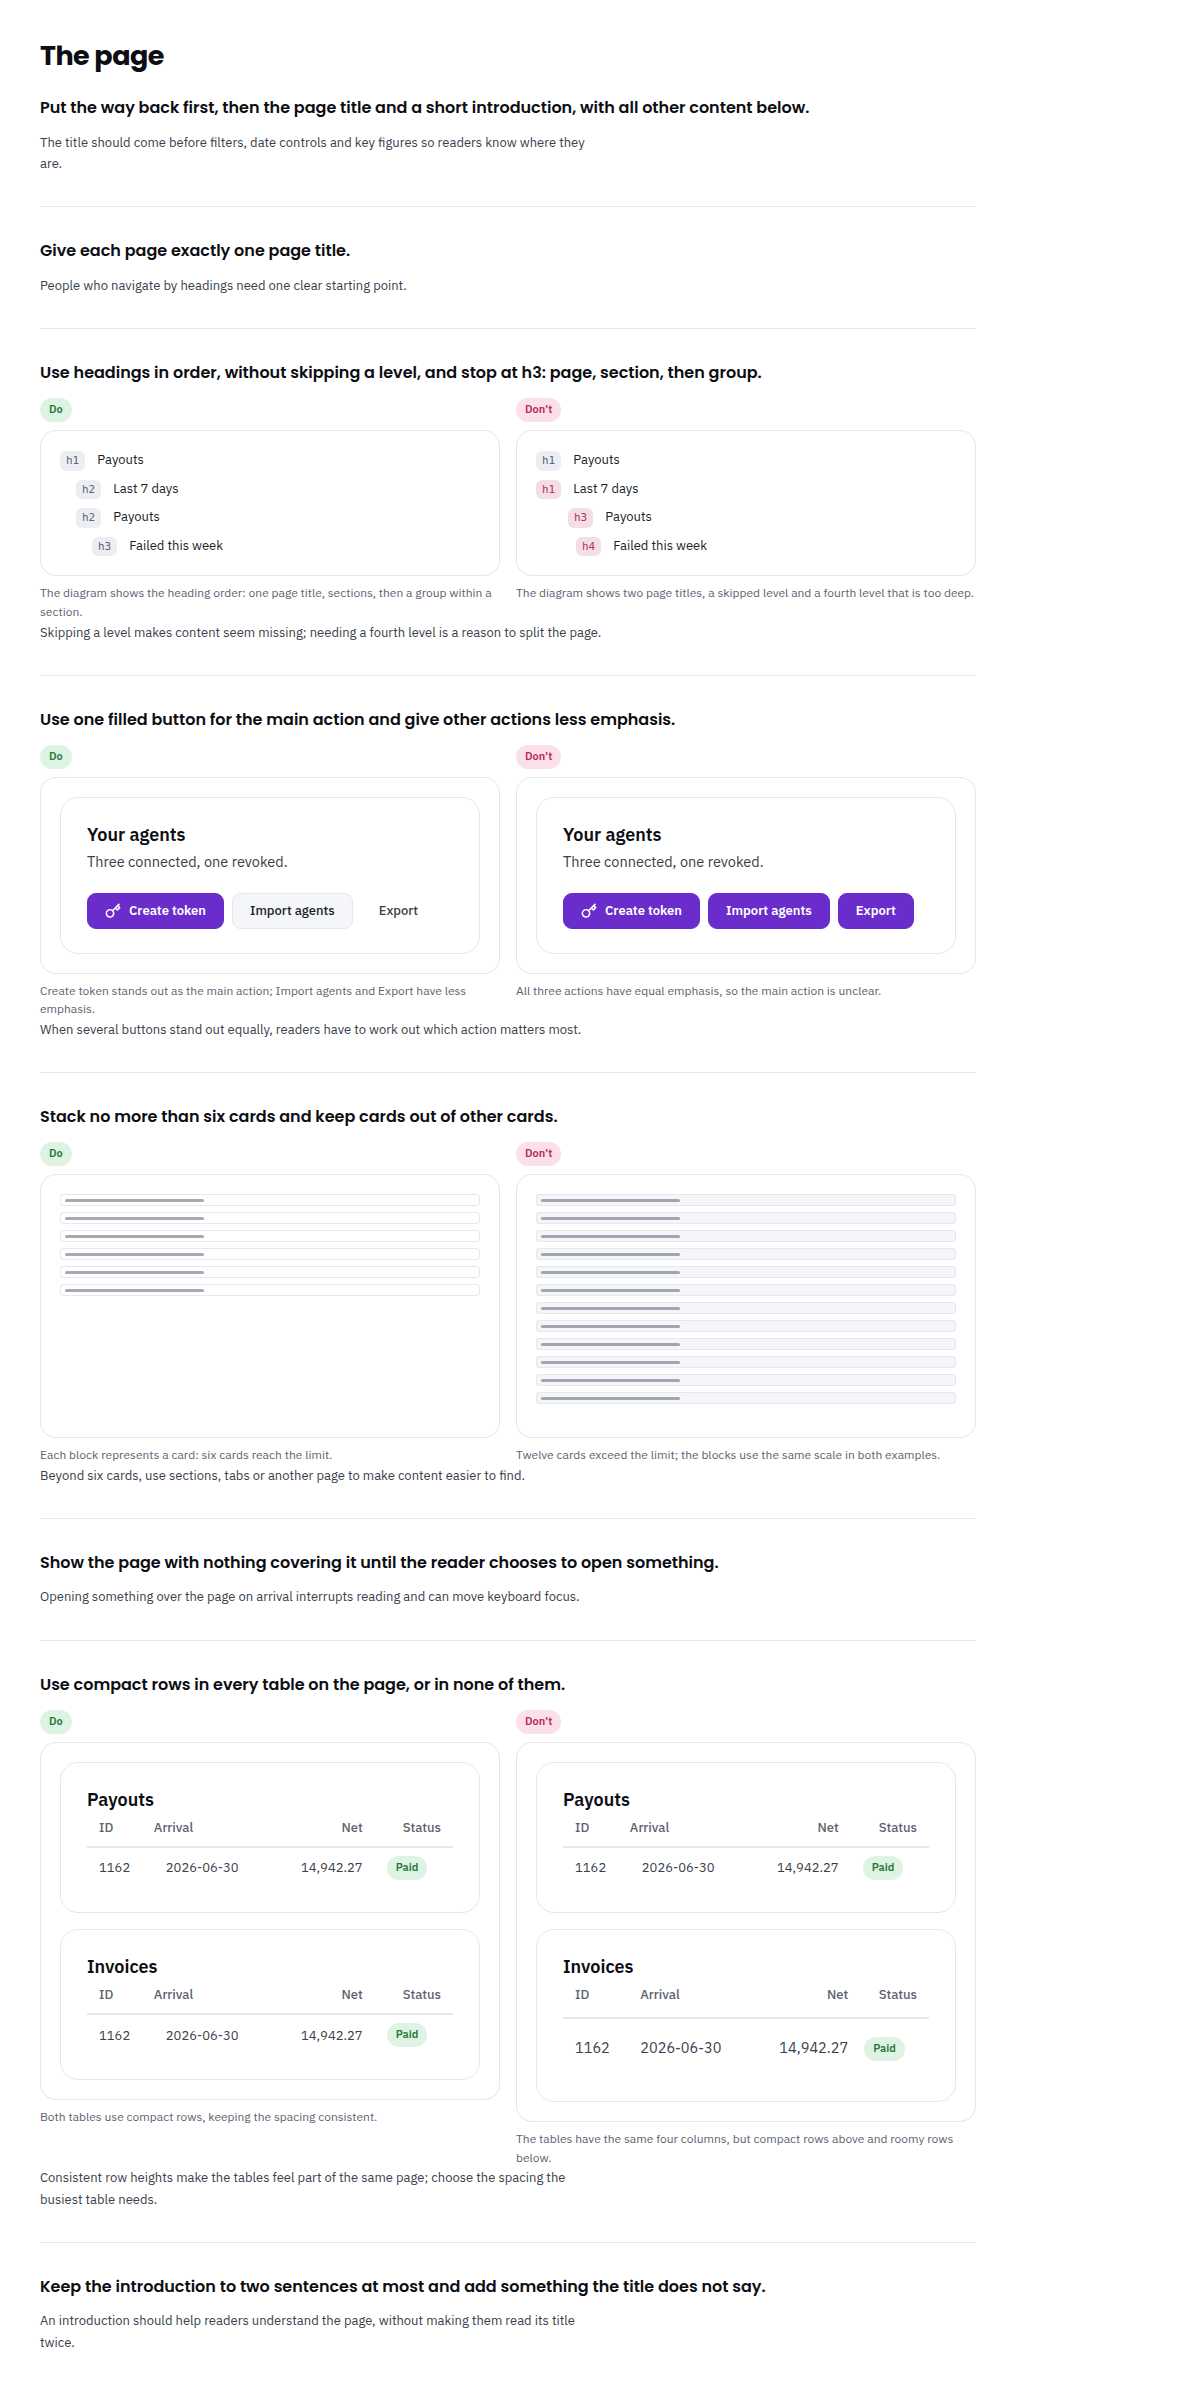
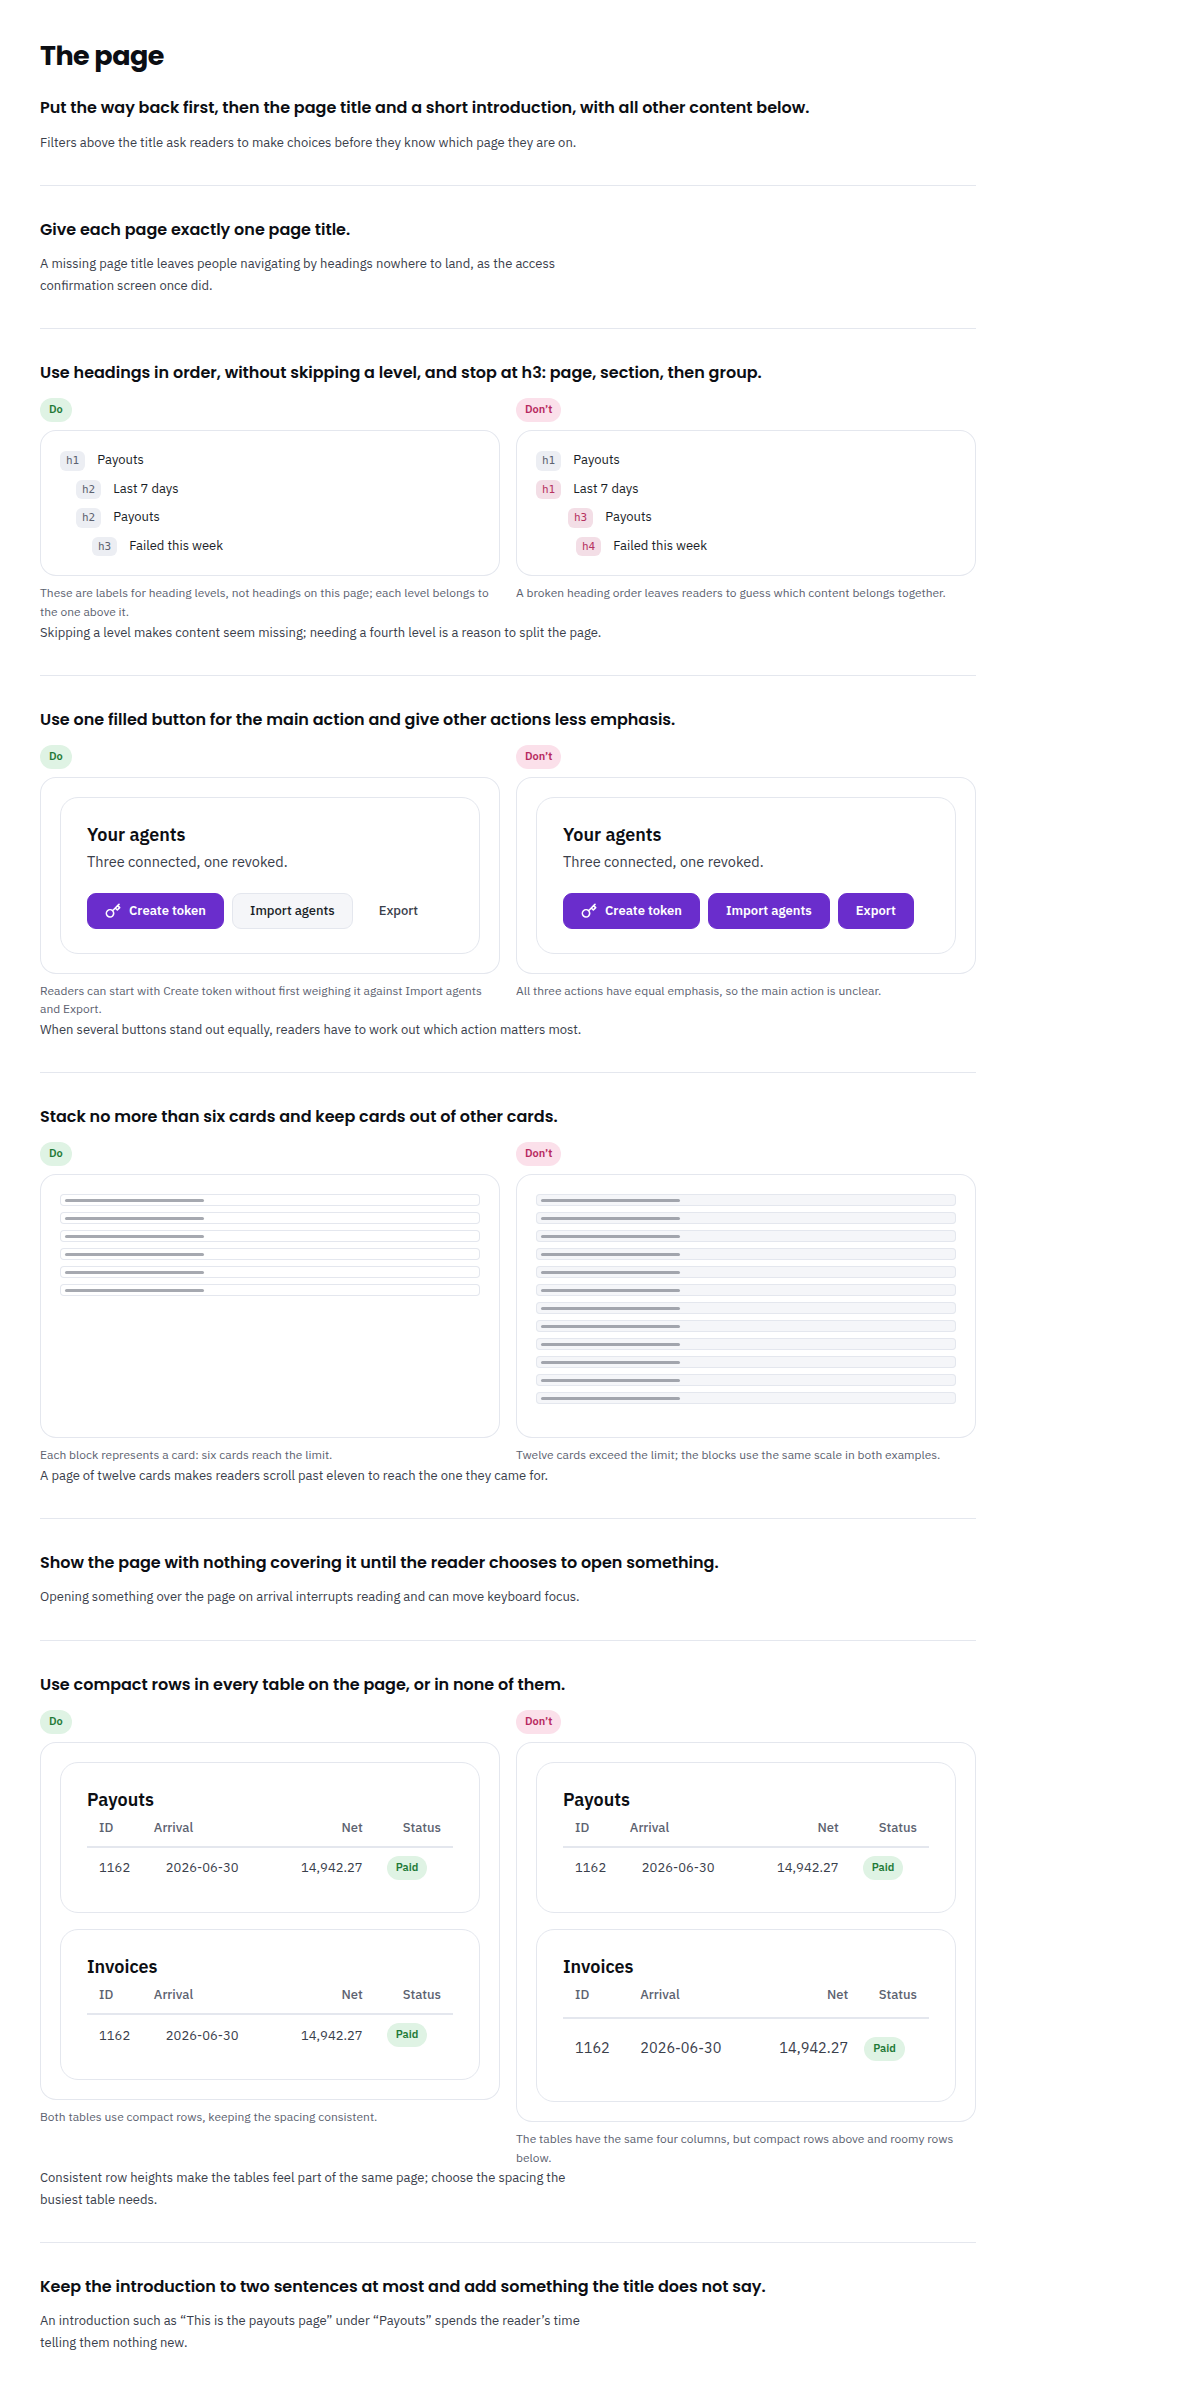
Address page guideline delta review with concrete prose and reference gates

diff --git a/stories/guidelines/_the-page.js b/stories/guidelines/_the-page.js
@@ -3,7 +3,7 @@ import { card, button, badge } from '../../src/components/index.js';
 
 export const TITLE = 'The page';
 
-export const BLURB = 'Arrange the page, make its main action clear, and keep its content manageable.';
+export const BLURB = 'What fits on one page: where readers start, which action leads, and when to split the content.';
 
 export const REFERENCE_POLICY = 'specification-only';
 
@@ -15,11 +15,9 @@ export const LIMITS = { cards: 6, outline: 3, primary: 1, lede: 2 };
 
 // A limit is a number to the gate and a word to the reader. Spelling it here
 // rather than typing the word into the sentence is what keeps the two the same.
-const said = (n) => ['zero', 'one', 'two', 'three', 'four', 'five', 'six'][n] ?? String(n);
+const said = (n) => ['zero', 'one', 'two', 'three', 'four', 'five', 'six', 'seven', 'eight', 'nine', 'ten', 'eleven', 'twelve'][n] ?? String(n);
 
-// The specimens. Two of them are drawn rather than photographed, and both say
-// so in their caption: an outline is a shape a reader hears rather than sees,
-// and twelve cards do not fit a 420px cell at life size.
+// The outline uses labels for heading levels; the stack uses one block per card.
 export const SPEC_CSS = `
   <style>
     .tp-out { display: flex; flex-direction: column; gap: var(--space-2); }
@@ -129,19 +127,19 @@ export const RULES = [
   {
     id: 'head',
     imperative: 'Put the way back first, then the page title and a short introduction, with all other content below.',
-    why: 'The title should come before filters, date controls and key figures so readers know where they are.',
+    why: 'Filters above the title ask readers to make choices before they know which page they are on.',
   },
   {
     id: 'one-h1',
     imperative: 'Give each page exactly one page title.',
-    why: 'People who navigate by headings need one clear starting point.',
+    why: 'A missing page title leaves people navigating by headings nowhere to land, as the access confirmation screen once did.',
   },
   {
     id: 'outline',
     imperative: `Use headings in order, without skipping a level, and stop at h${LIMITS.outline}: page, section, then group.`,
     why: 'Skipping a level makes content seem missing; needing a fourth level is a reason to split the page.',
-    doCaption: 'The diagram shows the heading order: one page title, sections, then a group within a section.',
-    dontCaption: 'The diagram shows two page titles, a skipped level and a fourth level that is too deep.',
+    doCaption: 'These are labels for heading levels, not headings on this page; each level belongs to the one above it.',
+    dontCaption: 'A broken heading order leaves readers to guess which content belongs together.',
     doHtml: outlineDo,
     dontHtml: outlineDont,
   },
@@ -149,7 +147,7 @@ export const RULES = [
     id: 'one-primary',
     imperative: `Use ${said(LIMITS.primary)} filled button for the main action and give other actions less emphasis.`,
     why: 'When several buttons stand out equally, readers have to work out which action matters most.',
-    doCaption: 'Create token stands out as the main action; Import agents and Export have less emphasis.',
+    doCaption: 'Readers can start with Create token without first weighing it against Import agents and Export.',
     dontCaption: 'All three actions have equal emphasis, so the main action is unclear.',
     doHtml: primaryDo,
     dontHtml: primaryDont,
@@ -157,7 +155,7 @@ export const RULES = [
   {
     id: 'stacking',
     imperative: `Stack no more than ${said(LIMITS.cards)} cards and keep cards out of other cards.`,
-    why: `Beyond ${said(LIMITS.cards)} cards, use sections, tabs or another page to make content easier to find.`,
+    why: 'A page of twelve cards makes readers scroll past eleven to reach the one they came for.',
     doCaption: `Each block represents a card: ${said(LIMITS.cards)} cards reach the limit.`,
     dontCaption: 'Twelve cards exceed the limit; the blocks use the same scale in both examples.',
     doHtml: stackDo,
@@ -179,8 +177,8 @@ export const RULES = [
   },
   {
     id: 'lede',
-    imperative: `Keep the introduction to ${said(LIMITS.lede)} sentences at most and add something the title does not say.`,
-    why: 'An introduction should help readers understand the page, without making them read its title twice.',
+    imperative: `Keep the introduction to ${said(LIMITS.lede)} sentence${LIMITS.lede === 1 ? '' : 's'} at most and add something the title does not say.`,
+    why: 'An introduction such as “This is the payouts page” under “Payouts” spends the reader’s time telling them nothing new.',
   },
 ];
 

diff --git a/stories/guidelines/refs.test.js b/stories/guidelines/refs.test.js
@@ -106,8 +106,8 @@ const codeFreeProblems = (mod, html = guidelinePage({ title: mod.TITLE, rules: m
   const doc = JSDOM.fragment(html);
   if (doc.querySelector('.gc-refs, code')) problems.push('the page renders a citation or code');
   doc.querySelectorAll('style').forEach((el) => el.remove());
-  if (/(?:[\w.-]+\/)+[\w.-]+|(?<!\w)\.[A-Za-z][\w-]*|--[a-z][\w-]*/.test(doc.textContent)) {
-    problems.push('the page text contains a file path, selector or token');
+  if (/(?:[\w.-]+\/)+[\w.-]+|(?<!\w)\.[A-Za-z][\w-]*|--[a-z][\w-]*|\b[a-z][\w]*\(\)|\bui-[\w-]+|\b\w+(?:-\w+)+[\s`'"]+gate\b/.test(doc.textContent)) {
+    problems.push('the page text contains a path, selector, token, function call or gate name');
   }
   return problems;
 };
@@ -206,6 +206,15 @@ test('specification-only pages reject citations moved into visible text', () => 
     { kit: [{ ref: ['fixture/card.css', 7].join(':') }] },
     { imperative: 'Copy fixture/shell.js:182.' },
     { why: 'Use .ui-card.' },
+    { why: 'Read refs.test.js.' },
+    { why: 'Use appShell().' },
+    { why: 'Use sidebarNav().' },
+    { why: 'Use breadcrumbs().' },
+    { imperative: 'Use card().' },
+    { why: 'Use ui-app__sub.' },
+    { why: 'Read the the-page gate.' },
+    { doHtml: () => '<div>Example</div>', dontHtml: () => '<div>Example</div>',
+      doCaption: 'Use appShell().', dontCaption: 'Avoid extra content.' },
     { why: 'Read docs/specification.md.' },
     { doHtml: () => '<div>Example</div>', dontHtml: () => '<div>Example</div>',
       doCaption: 'Use --space-2.', dontCaption: 'Avoid custom spacing.' },

diff --git a/PR.md b/PR.md
@@ -14,14 +14,14 @@ are unchanged: six cards, one primary action, headings through h3, compact table
 and an introduction of at most two sentences.
 
 The eight citation chips are removed. The page declares `REFERENCE_POLICY = 'specification-only'`;
-`refs.test.js` pins that declaration and rejects citations, paths and selectors in its rendered
+`refs.test.js` pins that declaration and rejects citations, paths, selectors, tokens, function calls and named gates in its rendered
 text, including references moved into captions. Other guideline pages continue to cite code.
 The specification table is unchanged and remains the sole rule-to-code mapping, with both
 existing table checks in place. No test definitions were removed; the prose-citation sweep no
 longer discovers this page now that its citations are gone, and three new checks cover the
 explicit policy, the real story render and references moved into visible text.
 
-Round-7 full verification: **1426 tests, 1424 pass, 1 fail, 1 skip**, up from 1424 tests
+Earlier round-7 full verification: **1426 tests, 1424 pass, 1 fail, 1 skip**, up from 1424 tests
 in round 6. The only failure is the discounted contrast wall-clock ceiling (139.7s against
 120s); every contrast measurement passes. The skip is the opt-in theme × accent matrix,
 which requires `CONTRAST_ACCENTS=1`. All 322 React tests pass.
@@ -32,6 +32,33 @@ Both refreshed screenshots show eight rules and zero code references after fonts
 at 1200px wide (light: 2393px high; dark: 2387px high). The specification table and all eight
 specimen render functions are unchanged. The coordinator owns independent review on the
 pushed SHA.
+
+## Round-7 delta review
+
+The four explanations for the header order, page title, card limit and introduction now
+name the cost to the reader. Three captions explain what to take from the specimens,
+including why the heading levels are printed as labels, and the Overview description
+now says when content needs another page. The rules table below uses the page's current
+instructions verbatim.
+
+The reference gate now also rejects function calls, dotless kit classes and named gates.
+Twelve separate mutations of the actual story text each turn its render check red: a path,
+a filename, a selector, a token, a filename in a caption, three function names, a function
+in an instruction, a dotless class, a gate name and a function in a caption. The plain-prose
+control stays green. Regression fixtures exercise the new forms independently.
+
+The specification again forbids custom table-cell padding in both inline styles and
+screen-specific CSS, and states that the page itself has no fourth-level heading.
+The four limits, specimen code and specification table are byte-for-byte unchanged.
+Alternate-limit checks render “one sentence” and “seven cards”.
+
+Current verification: **1426 tests, 1424 pass, 1 fail, 1 skip**. The only failure is the
+allowed contrast clock (140.9s against 120s); all contrast measurements pass. All 110 focused
+tests pass, and Storybook builds. Source and rendered prose pass the slop detector at
+paranoid with no warnings. The refreshed screenshots are **1200 × 2387px in dark** and
+**1200 × 2393px in light**, with eight rules and no code references in the guideline content.
+At 375px wide, the light page has no horizontal overflow. Independent review of the pushed
+commit remains with the coordinator.
 
 ## Premises
 
@@ -142,14 +169,14 @@ under the Overview, because it is the frame the other sixteen hang off.
 
 | Rule | Where it is stated | What it holds |
 |---|---|---|
-| `head` | the page | The way back, the title, the line under it. Nothing else above the title |
-| `one-h1` | the page | One title, and only one |
-| `outline` | the page | Down one level at a time, stopping three deep |
-| `one-primary` | the page | One filled button; everything else is quieter |
-| `stacking` | the page | Six cards at most, and no card inside a card |
-| `at-rest` | the page | Nothing over the page until the reader asks |
-| `density` | the page | One row height, every table or none |
-| `lede` | the page | Two sentences at most, and not one of them the title again |
+| `head` | the page | Put the way back first, then the page title and a short introduction, with all other content below. |
+| `one-h1` | the page | Give each page exactly one page title. |
+| `outline` | the page | Use headings in order, without skipping a level, and stop at h3: page, section, then group. |
+| `one-primary` | the page | Use one filled button for the main action and give other actions less emphasis. |
+| `stacking` | the page | Stack no more than six cards and keep cards out of other cards. |
+| `at-rest` | the page | Show the page with nothing covering it until the reader chooses to open something. |
+| `density` | the page | Use compact rows in every table on the page, or in none of them. |
+| `lede` | the page | Keep the introduction to two sentences at most and add something the title does not say. |
 | `shell` | the contract | An application page is `appShell()`'s, and it draws one `<main>` |
 | `navs` | the contract | Every navigation landmark named, and no two on a page sharing a name |
 
@@ -313,7 +340,8 @@ pass, and the only failure was this box's contrast clock.
 
 **The page itself** — `Guidelines / The page`, rendered in both themes:
 `docs/evidence/the-page-guidelines-dark.png`, `docs/evidence/the-page-guidelines-light.png`.
-Eight rules, four specimen pairs and no code references, captured at 1200px wide.
+Eight rules, four specimen pairs and no code references, captured at 1200px wide:
+2,387px high in dark and 2,393px in light.
 
 **The two faults** — `docs/evidence/the-page-fixes-dark.png`,
 `docs/evidence/the-page-fixes-light.png`. Top: the consent screen's title as a `div` and as an

diff --git a/docs/specification.md b/docs/specification.md
@@ -631,7 +631,7 @@ setBusy(el, { busy: false, message: `${rows.length} rows`, body: table(rows) });
 
 ## The page
 
-These rules keep a page clear and manageable, whatever it is about. Guidelines / The page
+`appShell()` draws a page's chrome and what goes inside it is the caller's. Guidelines / The page
 shows the eight choices a designer makes for each screen, with four Do and Don't pairs.
 The shared page layout and navigation names are already decided and are described here.
 The guideline page contains no code references; the table below is the only rule-to-code mapping.
@@ -648,8 +648,8 @@ The guideline page contains no code references; the table below is the only rule
   belong beneath it.
 - **`outline` — the heading order moves down one level at a time and stops at `h3`.** Use the
   levels for the page, a card or section, and a group within one. Drawers and other overlays have
-  their own heading order. A fourth-level heading inside a feedback dialog does not belong to
-  the page's outline. Footer column titles use level two so they cannot skip a level.
+  their own heading order. On the page itself the kit draws no `h4`. A fourth-level heading
+  inside a feedback dialog does not belong to the page's outline. Footer column titles use level two so they cannot skip a level.
 - **`one-primary` — one primary action at most.** Give the main action a filled button and
   give other actions less emphasis. An overlay can have its own main action, separate from the
   page's. This limit does not apply to marketing pages.
@@ -664,9 +664,10 @@ The guideline page contains no code references; the table below is the only rule
   confirmation dialogs, notifications, hover details and the command palette closed on arrival.
   They can be ready to open without being visible. When the page itself asks for consent or
   confirmation, show that request in the page content.
-- **`density` — use compact rows in every table on the page, or in none of them.** Use the
-  standard row spacing without adding custom cell padding. A table inside a drawer follows
-  the drawer's spacing rather than the page's.
+- **`density` — use compact rows in every table on the page, or in none of them.**
+  `.ui-table--dense` is all of a page's tables or none of them, and no screen writes cell padding
+  of its own — in a style attribute, or in a rule of its own naming `.ui-table`'s cells.
+  A table inside a drawer follows the drawer's spacing rather than the page's.
 - **`lede` — include a short introduction; it is two sentences at most.** Add information
   the title does not give, without repeating it in the opening sentence.
 

diff --git a/docs/guidelines.md b/docs/guidelines.md
@@ -64,8 +64,9 @@ A rule with no pair stands on its `why` instead.
 `stories/guidelines/refs.test.js` resolves every `kit` entry on every page: the file
 exists, the line exists, and the line contains the entry's `pattern`. Each page must
 cite code unless it explicitly declares `specification-only`; the gate pins that policy
-to The page and checks that its rendered text contains no citations, file paths or selectors. A failure names
-the page, rule, reference, and where the pattern moved to. Shifting a cited line therefore
+to The page and checks that its rendered text contains no citations, file paths, selectors,
+tokens, function calls or gate names. A failure names the page, rule, reference, and where
+the pattern moved to. Shifting a cited line therefore
 fails CI until the reference is updated. The same file checks each rule's shape: an `imperative` that says something, a pair that is both
 halves or neither, captions on a pair, a `why` on a rule without one, and an `unmet`
 that is `{ issue, note }`.
